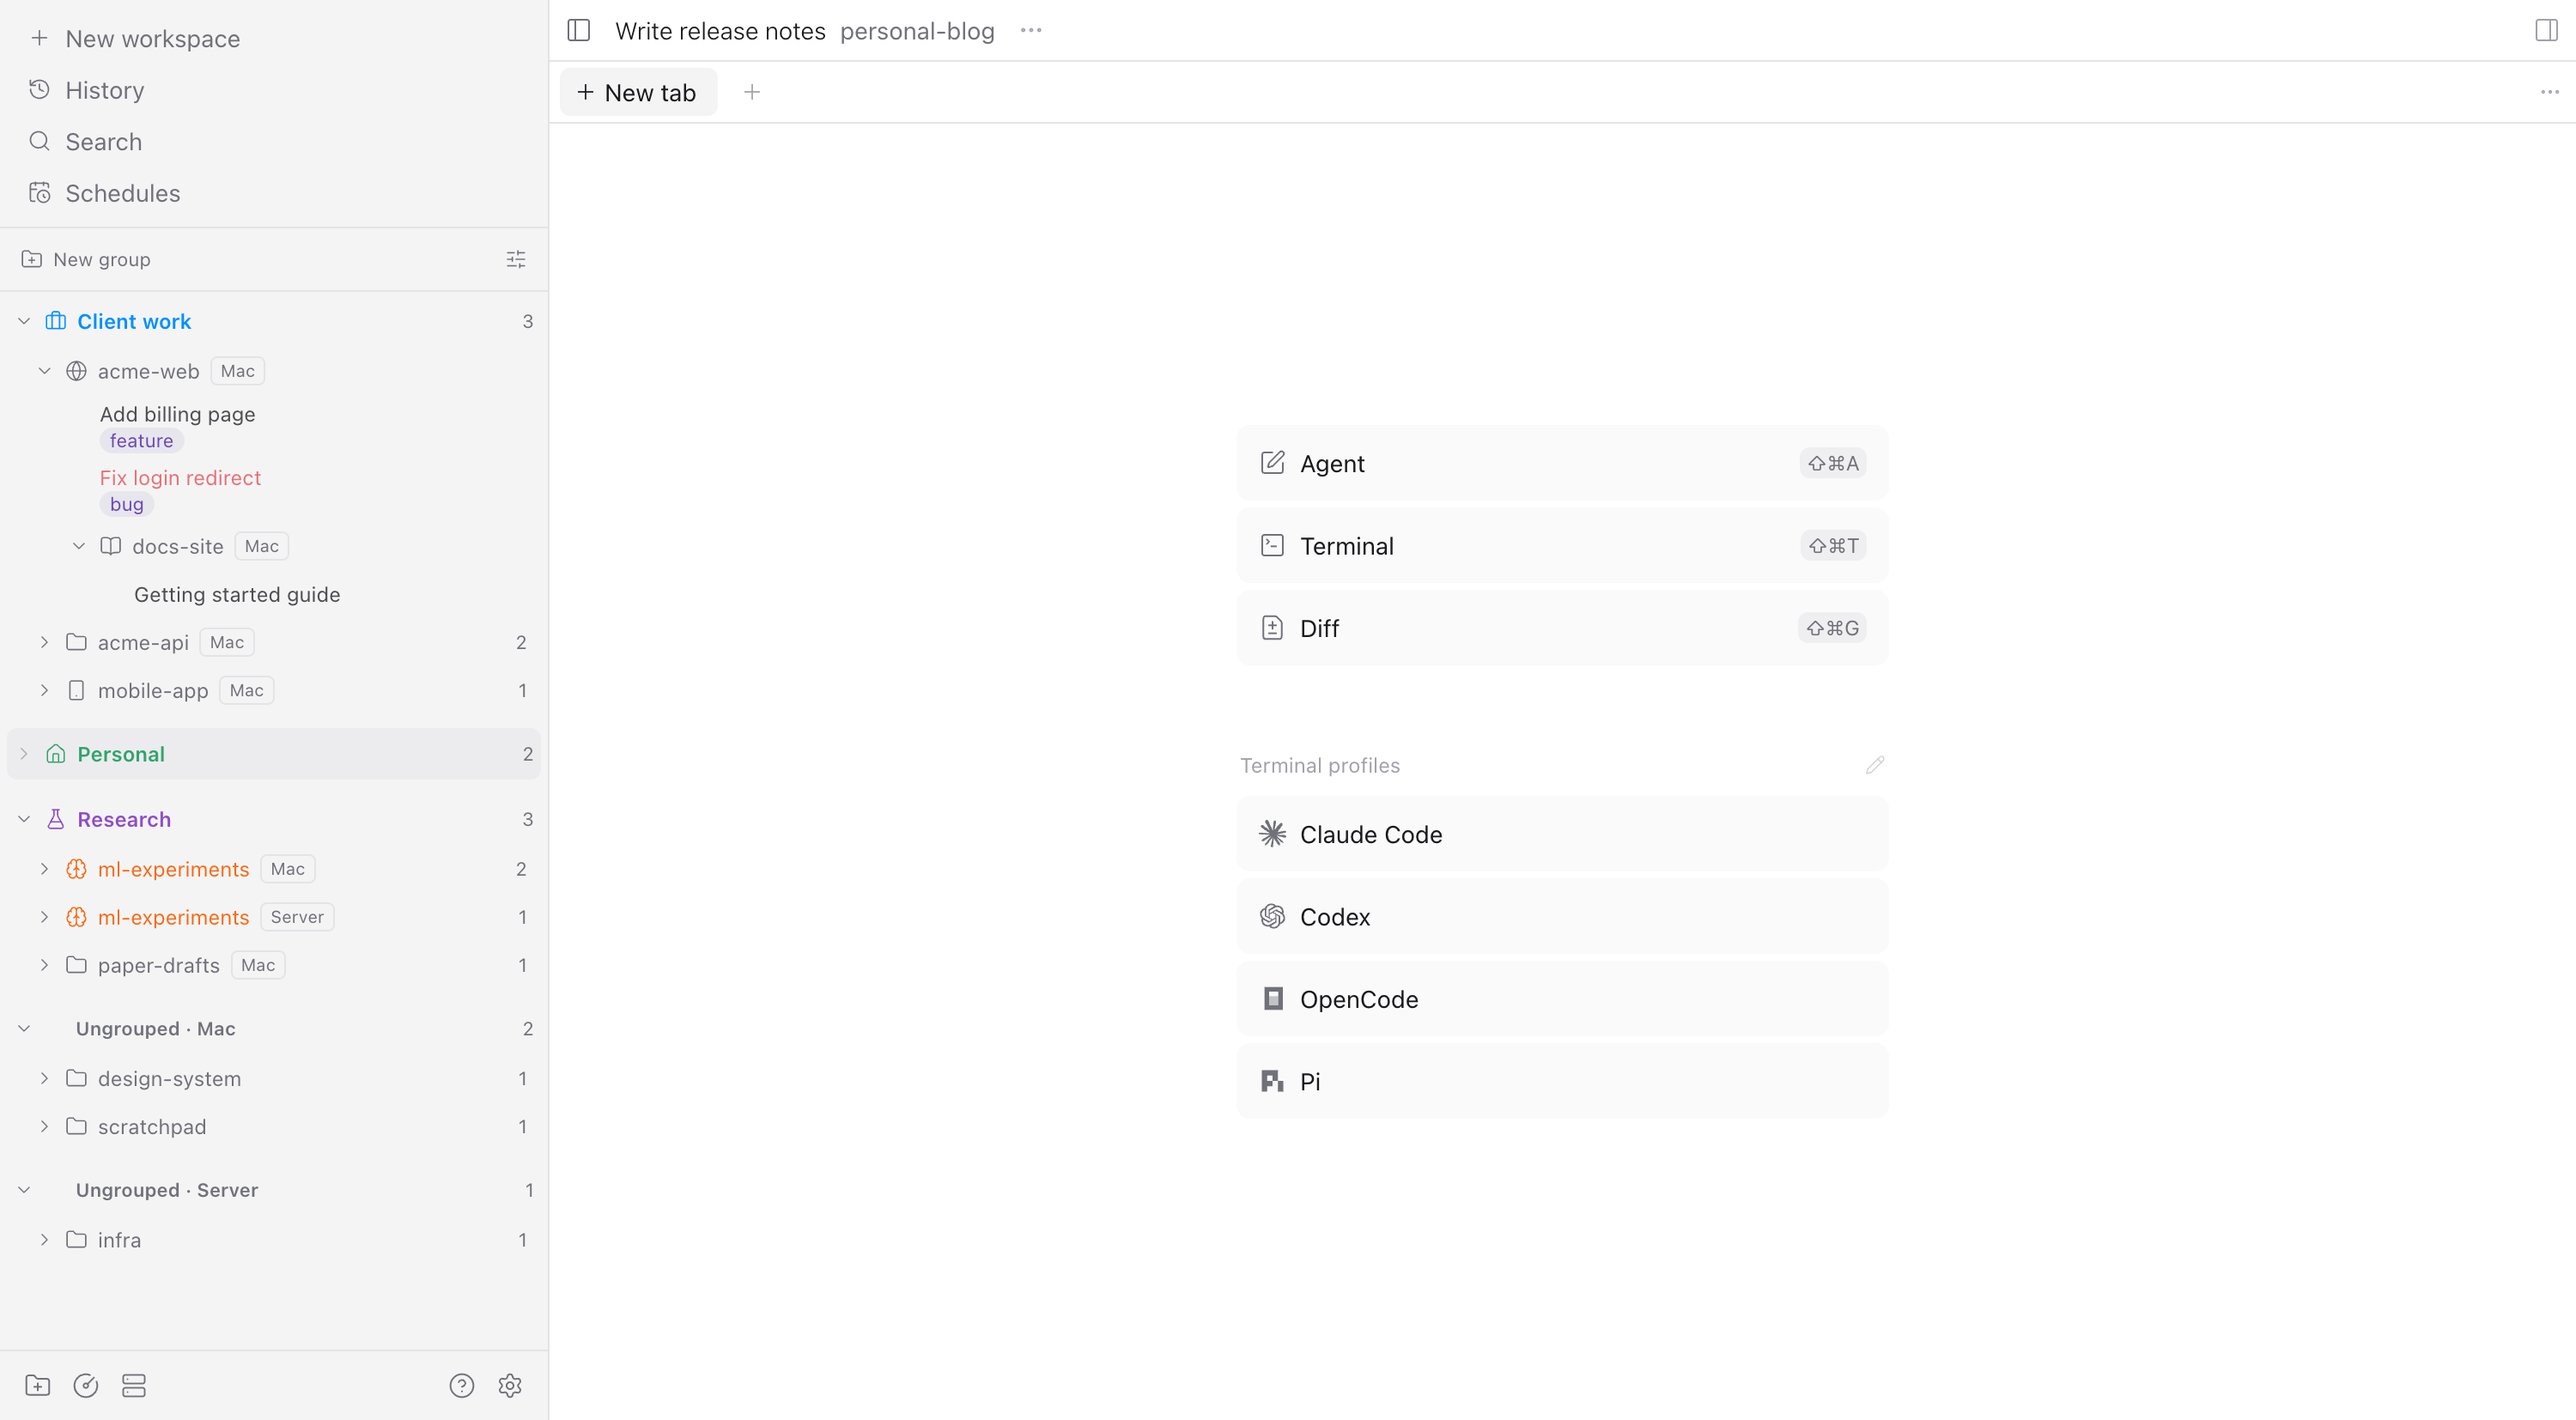
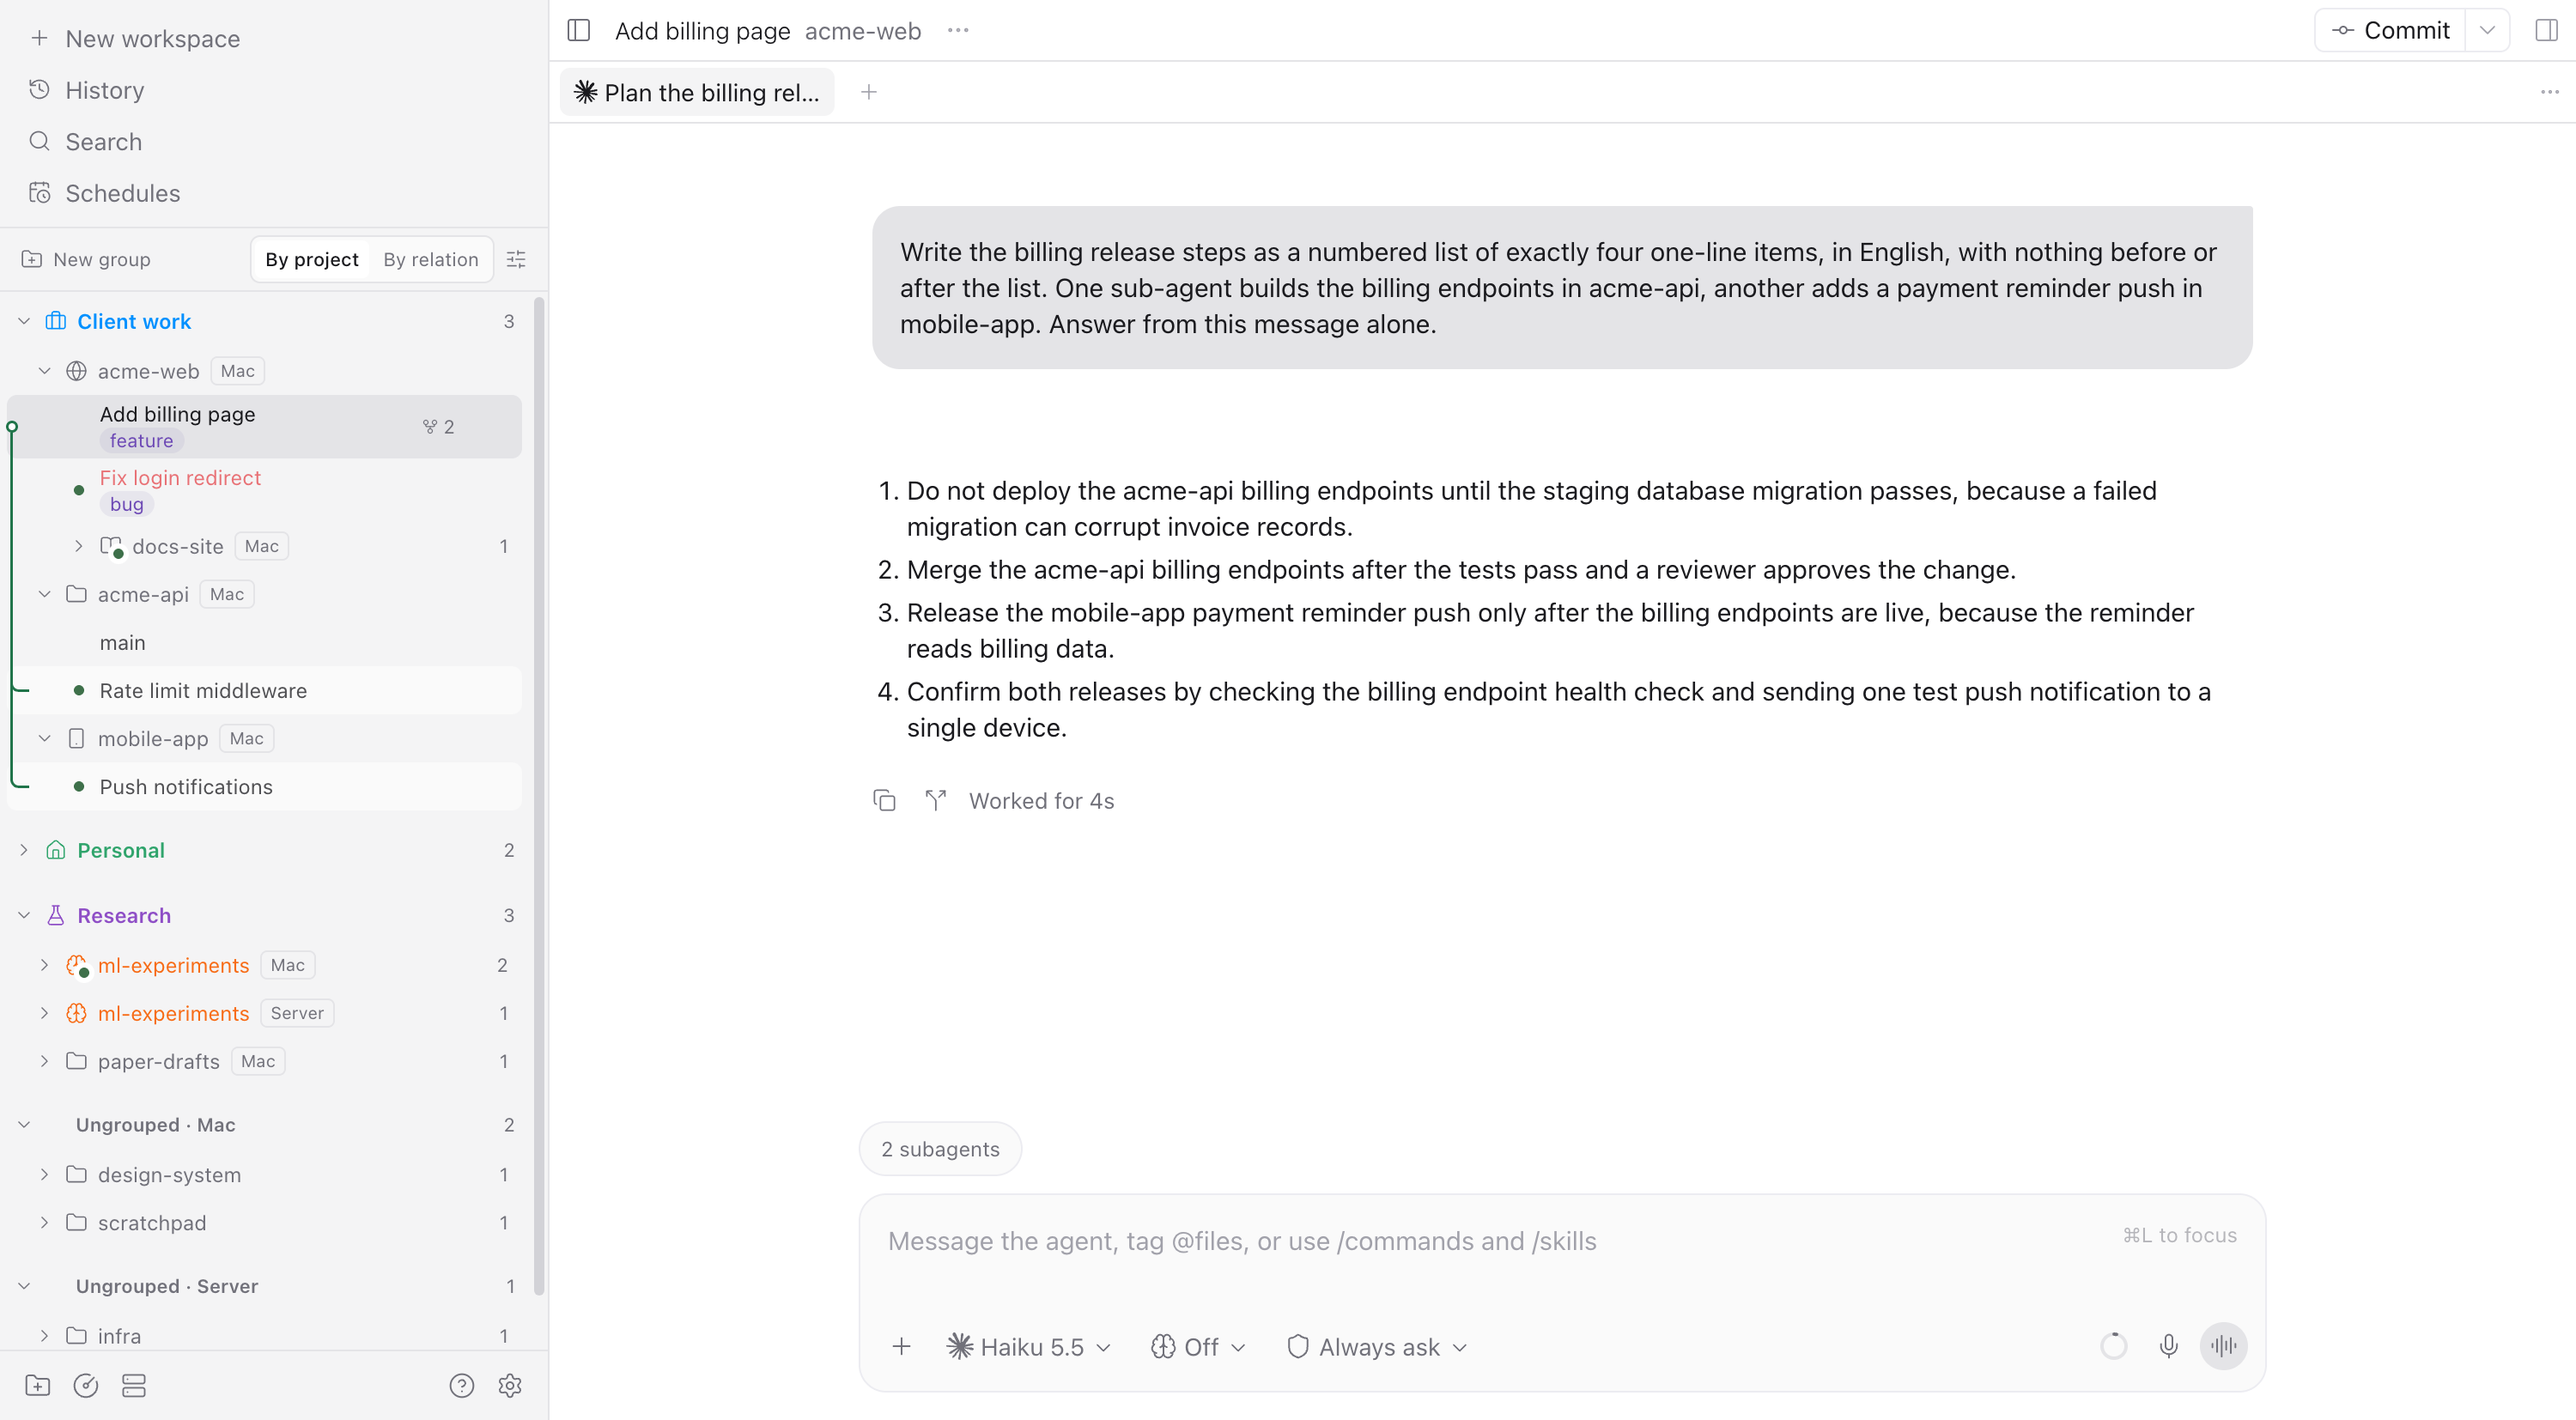
Document agent relationships and retake screenshots for 1.4.0
- Docs: supported languages at the top of the README and all overviews; a
  new "Agent relationships" section covering the lines between parent and
  child agents, the child count, the family highlight, the By relation view,
  keyboard moves and the Relationship lines setting; the settings button is
  now at the right end of the toolbar.
- Screenshots: sidebar, drag and colors retaken with the By project / By
  relation switch, relationship lines and the icon search; settings shows
  the Visible elements section with the new switch. New screenshot of the
  By relation view, added to the listing after the sidebar.

diff --git a/OVERVIEW.md b/OVERVIEW.md
@@ -1,4 +1,6 @@
-Paseo lists every project in one long column. Once you have a dozen or so, finding one means scrolling. This plugin lets you put projects into groups like Work, Clients or Side projects, and fold the groups you aren't using right now.
+**Languages:** English, Korean (한국어) and Simplified Chinese (简体中文). The plugin follows the app's language, or you can pick one in its settings.
+
+Paseo lists every project in one long column. Once you have a dozen or so, finding one means scrolling. This plugin lets you put projects into groups like Work, Clients or Side projects, and fold the groups you aren't using right now. When an agent hands work to sub-agents in other workspaces, lines show which belong together.
 
 ## Turn it on after installing
 
@@ -44,6 +46,27 @@ When the app is connected to more than one host, projects from all of them show 
 - Tags use the host names from Paseo's settings. If two hosts look the same, rename one under **Settings → Host → Overview**.
 - Groups are saved on the host that provides this view. While another host is offline, its projects are hidden, and they come back in the same place when it reconnects.
 
+## Agent relationships
+
+An agent can start sub-agents in other workspaces, even in other projects. Grouping can put them far apart, so the sidebar links them.
+
+- A line on the left joins the parent agent's workspace with its children's workspaces.
+- The parent's row shows how many children it has.
+- Select or point at one of them, and the whole family lights up.
+- Sub-agents in the parent's own workspace are tabs of that workspace, so the sidebar doesn't list them separately.
+- To hide the lines, the child count and the highlight, turn off **Relationship lines** in the settings.
+
+**By relation** at the top of the sidebar shows every agent as a tree instead: each parent with its children under it, and the project name under each agent. **By project** goes back to the groups. The sidebar always opens **By project**.
+
+In the desktop app and in a browser, the keyboard can move through the list. When a sidebar row has keyboard focus:
+
+- ↑ and ↓ move between rows.
+- ← folds a row and → unfolds it.
+- P jumps to the parent agent.
+- [ and ] jump to the previous and next sibling. From a parent, ] jumps to its first child and [ to its last.
+
+A jump unfolds the group or project that hides the target and scrolls to it.
+
 ## Colors and icons
 
 Projects show the image you gave them in Paseo, or a folder when they have none.
@@ -54,14 +77,14 @@ What you pick here only shows in this view and changes nothing in Paseo. Reset t
 
 ## Settings
 
-The sliders button next to New group opens the plugin's settings. You can change:
+The sliders button at the right end of the toolbar opens the plugin's settings. You can change:
 
 - text size, from 11 to 15 pt
 - row height
 - space between groups, from none to extra large
 - how far projects and workspaces are indented
 - whether group names are bold
-- which details show: project icons, host name tags, status dots, status on folded rows, the Pinned section
+- which details show: project icons, host name tags, status dots, status on folded rows, the Pinned section, relationship lines
 - how workspaces show: sorted by name, creation or last prompt; titled by their title or branch name; a branch line and labels under the name; changed lines, last activity or nothing right of the name; and whether background workspaces show
 - the language: same as the app, English, Korean or Simplified Chinese
 
@@ -69,7 +92,7 @@ Settings are saved per device, so your phone and your computer can look differen
 
 ## What it stores
 
-Groups, their order, colors and icons are saved in the plugin's settings on the daemon. Every app connected to that daemon sees the same groups. Which groups are folded is saved per device. Project images come from the daemon running the plugin, over a local connection that uses Paseo's own installed modules. Nothing goes to an outside service. When an image can't be read, the folder icon shows instead. Label colors and marking a workspace as read or unread use the same local connection, because the plugin API has neither. A daemon only answers for its own host, so on another host labels show without colors.
+Groups, their order, colors and icons are saved in the plugin's settings on the daemon. Every app connected to that daemon sees the same groups. Which groups are folded is saved per device. Project images come from the daemon running the plugin, over a local connection that uses Paseo's own installed modules. Nothing goes to an outside service. When an image can't be read, the folder icon shows instead. Label colors and marking a workspace as read or unread use the same local connection, because the plugin API has neither. A daemon only answers for its own host, so on another host labels show without colors. Agent relationships come from Paseo's own agent list, so the plugin stores nothing for them.
 
 Removing a project runs `paseo project delete` on the daemon's machine, because the plugin API has no call for it. Paseo archives the project's workspaces and leaves the project folder on disk. Worktrees that Paseo created for those workspaces can be deleted when they are archived. The confirm dialog tells you this before anything happens.
 

diff --git a/OVERVIEW.zh-CN.md b/OVERVIEW.zh-CN.md
@@ -1,4 +1,6 @@
-将侧栏项目按工作、客户或个人项目分组，拖动排序，折叠暂时不用的分组。
+**支持语言：** English、한국어、简体中文。插件跟随应用语言，也可在插件设置中手动选择。
+
+将侧栏项目按工作、客户或个人项目分组，拖动排序，折叠暂时不用的分组。Agent 在其他工作区创建子 Agent 时，侧栏会用线把它们连起来。
 
 ## 启用
 
@@ -36,6 +38,27 @@
 - 标签使用 Paseo 设置中的主机名称。名称相同时，请在**设置 → 主机 → 概览**中修改。
 - 分组保存在提供此视图的主机上。其他主机离线时，其项目会暂时隐藏，重新连接后回到原位置。
 
+## Agent 关系
+
+Agent 可以在其他工作区（甚至其他项目）中创建子 Agent。分组后它们可能相隔很远，因此侧栏会把它们连起来。
+
+- 左侧的线连接父 Agent 的工作区和子 Agent 的工作区。
+- 父 Agent 所在行显示子 Agent 数量。
+- 选中或悬停其中一行，整个家族都会高亮。
+- 与父 Agent 在同一工作区的子 Agent 作为该工作区的标签页打开，不在侧栏单独列出。
+- 如需隐藏连线、子 Agent 数量和高亮，可在设置中关闭 **Agent 关系线**。
+
+点击侧栏顶部的**按关系**，所有 Agent 以树状显示：父 Agent 下列出子 Agent，每个 Agent 下显示项目名称。点击**按项目**返回分组视图。侧栏每次都以**按项目**打开。
+
+在桌面应用和浏览器中，侧栏某行获得键盘焦点后可用键盘操作：
+
+- ↑ 和 ↓ 在行之间移动。
+- ← 折叠，→ 展开。
+- P 跳到父 Agent。
+- [ 和 ] 跳到上一个、下一个同级 Agent。在父 Agent 上，] 跳到第一个子 Agent，[ 跳到最后一个。
+
+目标位于折叠的分组或项目中时，会自动展开并滚动到该位置。
+
 ## 图标与颜色
 
 点击项目图标或分组的调色板按钮，可选 11 种颜色、36 个图标，也可按名称搜索全部 Lucide 图标，或输入一个表情。工作区颜色在其 ⋯ 菜单中设置。颜色应用于名称和图标，仅在本视图中显示。
@@ -44,13 +67,13 @@
 
 ## 外观
 
-点击**新建分组**旁的设置按钮，可调整字号（11–15 磅）、行高、分组间距和缩进，并选择是否显示加粗分组名、项目图标、主机名标签、状态点、折叠行的状态和置顶区域。工作区可按名称、创建时间或最后提示排序，标题可用标题或分支名，名称下可显示分支和标签，名称右侧可显示变更行数、最后活动或不显示，还可选择是否显示后台工作区。
+点击工具栏右端的设置按钮，可调整字号（11–15 磅）、行高、分组间距和缩进，并选择是否显示加粗分组名、项目图标、主机名标签、状态点、折叠行的状态、置顶区域和 Agent 关系线。工作区可按名称、创建时间或最后提示排序，标题可用标题或分支名，名称下可显示分支和标签，名称右侧可显示变更行数、最后活动或不显示，还可选择是否显示后台工作区。
 
 语言支持跟随应用，或手动选择 English、한국어、简体中文。外观和语言按设备保存，手机与电脑可分别设置。
 
 ## 数据
 
-分组、排序、颜色和图标保存在守护进程的插件设置中，同一主机的各客户端共享。折叠状态按设备保存。读取项目图像时，插件通过 Paseo 自带模块连接本机守护进程，不访问外部服务；模块不可用时显示文件夹。标签颜色和已读状态也通过同一本机连接获取，因为插件 API 不提供这两项；守护进程只回答自己主机的数据，其他主机的标签不显示颜色。
+分组、排序、颜色和图标保存在守护进程的插件设置中，同一主机的各客户端共享。折叠状态按设备保存。读取项目图像时，插件通过 Paseo 自带模块连接本机守护进程，不访问外部服务；模块不可用时显示文件夹。标签颜色和已读状态也通过同一本机连接获取，因为插件 API 不提供这两项；守护进程只回答自己主机的数据，其他主机的标签不显示颜色。Agent 关系来自 Paseo 自身的 Agent 列表，插件不额外保存。
 
 移除项目会在主机上执行 `paseo project delete`，归档该项目的工作区，保留磁盘上的项目文件夹。归档时，Paseo 创建的工作树文件夹可能被删除，确认弹窗会提前提示。
 

diff --git a/README.md b/README.md
@@ -2,6 +2,8 @@
 
 Sort Paseo sidebar projects into groups you can drag, fold and color.
 
+**Languages:** English, Korean (한국어), Simplified Chinese (简体中文)
+
 ![Project groups](assets/thumbnail.png)
 
 ## Install
@@ -27,6 +29,8 @@ Installing does not change the sidebar. Open **Settings → Sidebar** and set **
 - Give groups and projects a color and an icon (any Lucide icon, searchable by name) or emoji. Workspaces get a color.
 - Projects use their Paseo image unless you choose a plugin icon or emoji.
 - Folded projects and groups show the most urgent workspace status on their icon, and a light fill when they hold the workspace you have open.
+- See which agents started which: lines join a parent agent's workspace with its sub-agents' workspaces, and **By relation** shows all agents as a tree. Turn the lines off in the settings if you don't need them.
+- Move through the list with the keyboard in the desktop app and browser, including jumps to an agent's parent and siblings.
 - Use the ⋯ menus to move, rename, label, pin, archive or remove things, mark a workspace as read or unread, and open a project's settings.
 - Change text size, row height, space between groups and indentation per device, and how workspaces are sorted, titled and labeled, like in Paseo's own sidebar.
 - Read the plugin in English, Korean or Simplified Chinese.
